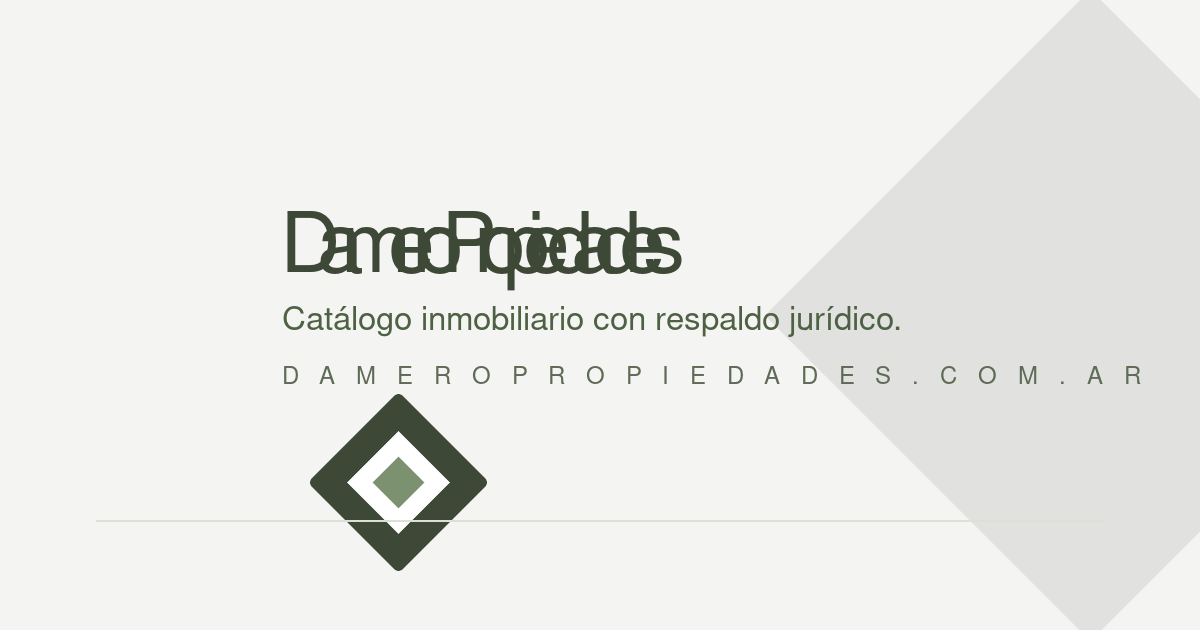
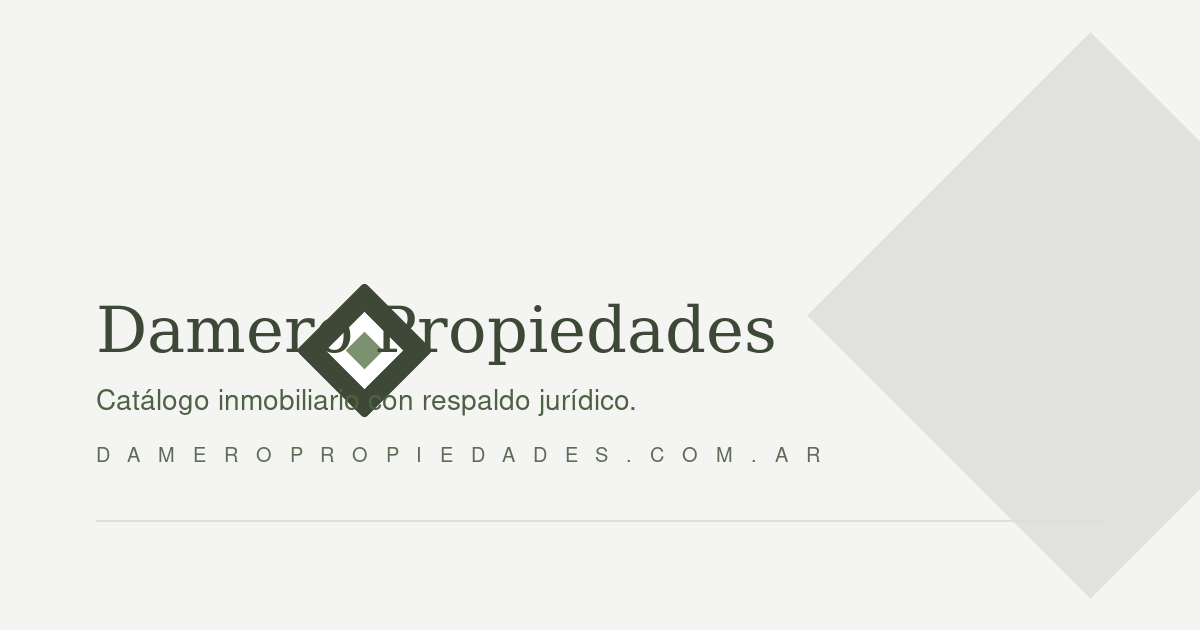
fix(seo): use listing cover photo for property cards and left-align static OG
Detail and gallery pages pass descripcion plus fotos[0] as og:image (absolute via BaseLayout); width/height tags ship only for the verified 1200x630 static card. Static OG layout fixed to a single x=96 left axis with the badge above the wordmark. WebP covers are served as-is under the 300 KB gate; WhatsApp WebP support is contested.

diff --git a/e2e/seo-meta.spec.ts b/e2e/seo-meta.spec.ts
@@ -1,4 +1,9 @@
 import { expect, test } from '@playwright/test';
+import {
+  expectedPhotosBySlug,
+  expectedProbeSlug,
+  expectedTitlesBySlug,
+} from './helpers/content-expectations';
 
 /**
  * SEO/social baseline — the WhatsApp/Telegram card renders from these tags.
@@ -92,4 +97,55 @@ test('seo: brand assets resolve with the right content type', async ({ request }
   const favicon = await request.get('/favicon.svg');
   expect(favicon.status()).toBe(200);
   expect(favicon.headers()['content-type']).toContain('image/svg');
+});
+
+test('seo: listing detail card uses the listing cover photo', async ({
+  page,
+  request,
+}) => {
+  const slug = expectedProbeSlug(1);
+  test.skip(!slug, 'no listing with photos in the collection');
+  const photos = expectedPhotosBySlug()[slug!];
+  const titles = expectedTitlesBySlug();
+
+  await page.goto(`/propiedades/${slug}`);
+  const head = page.locator('head');
+
+  await expect(head.locator('meta[property="og:image"]')).toHaveAttribute(
+    'content',
+    `${SITE_ORIGIN}${photos[0].src}`,
+  );
+  await expect(head.locator('meta[name="twitter:image"]')).toHaveAttribute(
+    'content',
+    `${SITE_ORIGIN}${photos[0].src}`,
+  );
+  // Per-photo dimensions are unknown at build time, so no width/height
+  // tags ship for covers — a wrong tag is worse than none.
+  await expect(head.locator('meta[property="og:image:width"]')).toHaveCount(0);
+  await expect(head.locator('meta[property="og:image:height"]')).toHaveCount(0);
+  const url = await head.locator('meta[property="og:url"]').getAttribute('content');
+  expect(url).toMatch(/^https:\/\/dameropropiedades\.com\.ar\/propiedades\/.+\/?$/);
+  expect(url).not.toContain('?');
+  await expect(head.locator('meta[property="og:title"]')).toHaveAttribute(
+    'content',
+    `${titles[slug!]} | Damero Propiedades`,
+  );
+
+  const cover = await request.get(photos[0].src);
+  expect(cover.status()).toBe(200);
+});
+
+test('seo: filtered search keeps the static card with a clean canonical', async ({
+  page,
+}) => {
+  await page.goto('/propiedades?operacion=venta&moneda=USD');
+  const head = page.locator('head');
+
+  await expect(head.locator('meta[property="og:image"]')).toHaveAttribute(
+    'content',
+    `${SITE_ORIGIN}/og/damero-og.png`,
+  );
+  const url = await head.locator('meta[property="og:url"]').getAttribute('content');
+  expect(url).toMatch(/^https:\/\/dameropropiedades\.com\.ar\/propiedades\/?$/);
+  expect(url).not.toContain('?');
 });
